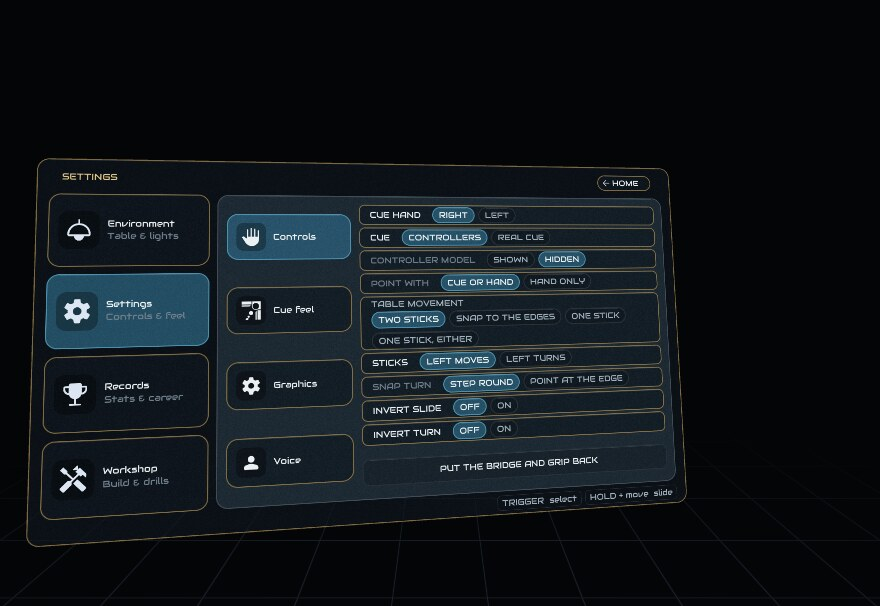
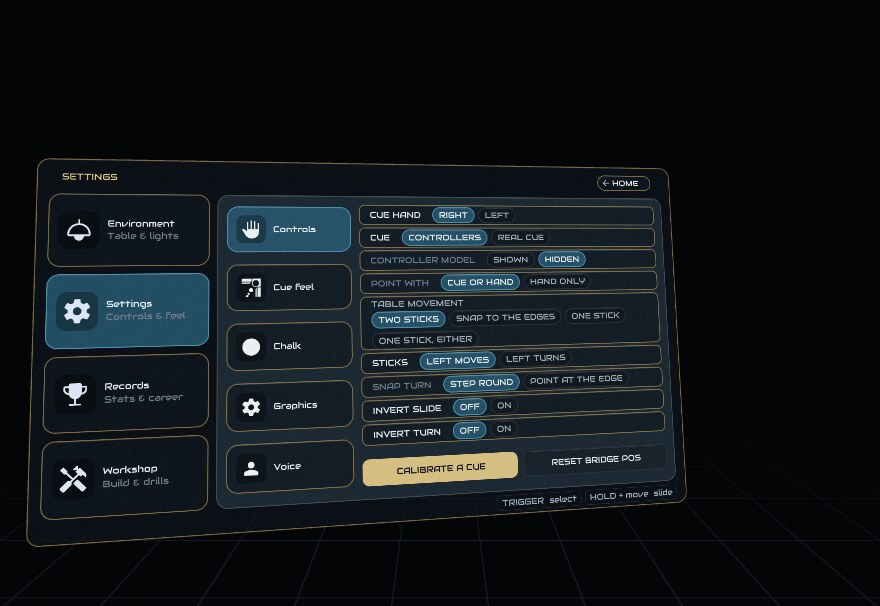
The guide catches up with 5.2
SETTING UP THE TABLE is one panel and the section is rewritten for it. There is
no separate height screen and no separate square screen: you mark the real
surface you are playing over and the game table stands on it, so where the
outline is and how high it is decides the cloth's height, its heading and where
it sits. The control table is the panel's own -- hold the trigger and the
outline comes with your hand -- and the amber edge, the show-it-while-playing
setting and the scoreboard step are all described where they now live.

MARKING YOUR REAL TABLE is the first step of that panel rather than a screen of
its own, and says so. ENVIRONMENT is four entries. Cue calibration is on
Controls, with the cue's own row, and the settings tabs are listed including
CHALK.

CHALK gains what 5.2 gave it: every sweep heard and felt, holding the block the
way you want with the side trigger, two taps to put that back, keeping it in
reach, and marks in the chalk's own colour.

THE MX INK has a table of what its buttons do, since they now do anything at
all, and a note that the other controller stays live unless you stand it down.

TWO MORE SNOOKER BODIES, ARCADE and MATCH, photographed beside SNOOKER at the
same camera. A netted table is built on one of the three.

PLAYING A FRIEND says you practise while you wait, and CANADIAN BOWLLIARDS says
you call nothing.

New pictures: place-table, board-step, settings-chalk, body-arcade, body-match,
and controls re-shot.

Changed region(s): [[0.2455, 0.3267, 0.3989, 0.8317], [0.3989, 0.7426, 0.7364, 0.802]]

diff --git a/docs/cuevr-guide.html b/docs/cuevr-guide.html
@@ -369,69 +369,71 @@
 
 <section id="table">
   <h2>Setting up the table</h2>
-  <p class="lede">Where the table sits and how high it stands is the first thing to set.</p>
+  <p class="lede">One panel, and every way in opens the same one.</p>
 
   <figure>
-    <img src="img/cuevr/place-table.jpg" alt="The table placement screen showing a height of 85 cm">
-    <figcaption>The placement screen. Three things to do, and only the first is compulsory. The
-    height is shown in centimetres so you can match a real piece of furniture.</figcaption>
+    <img src="img/cuevr/place-table.jpg" alt="The table panel: two steps, the outline's size and height, and what each control does">
+    <figcaption>The table panel. Two steps down the side &mdash; <b>Your real table</b> and
+    <b>Scoreboard</b> &mdash; and under them what the step is for, the size and height it is at, and
+    a line for each control.</figcaption>
   </figure>
 
-  <p>The panel down the side carries the three steps, and says what the sticks and the triggers
-  do while you are on each one. <b>Adjust the height</b> is the one you have to do; <b>Adjust the
-  square</b> fits a drawn rectangle to the real surface the cloth is laid over; <b>Scoreboard</b>
-  is marked optional and nothing waits for it.</p>
+  <p>The first thing you do is mark <b>the real surface you are playing over</b>: a desk, a dining
+  table, the end of a bed. The game table then <b>stands on it</b>. You do not set the cloth's
+  height separately and you do not turn the cloth separately &mdash; where that outline is and how
+  high it is decides all three, so the rail lands over your real edge and your bridge hand comes
+  down on something solid.</p>
 
   <table>
     <tr><th>Control</th><th>What it does</th></tr>
-    <tr><td>Left stick</td><td>Slides the table around the room.</td></tr>
-    <tr><td>Right stick, left and right</td><td>Turns the table.</td></tr>
-    <tr><td>Right stick, up and down</td><td>Raises and lowers the table. This is the only thing
-      that needs this screen — sliding and turning work anywhere.</td></tr>
-    <tr><td><b>Grip</b> a rail, or the bed</td><td>Takes hold of the table. Move your hand and it
-      comes with you; roll your wrist and it turns about where you are holding it.</td></tr>
-    <tr><td><b>Trigger</b>, with the controller lying flat</td><td>Sets the height off something
-      real. Lay a controller on your dining table and pull the trigger: the cloth drops to that
-      surface, less the thickness of the controller, and the panel tells you what height it
-      took.</td></tr>
-    <tr><td><kbd>A</kbd></td><td>Finished. Saves the position. Either hand.</td></tr>
+    <tr><td><b>Trigger</b>, held</td><td>The outline comes with your hand &mdash; where it is, how
+      high it is and which way it runs, all at once. Let go to leave it there. This is the quickest
+      way by a distance: stand at your desk, point along it, pull.</td></tr>
+    <tr><td>Left stick</td><td>Slides the outline.</td></tr>
+    <tr><td>Right stick</td><td>Makes it bigger or smaller.</td></tr>
+    <tr><td><b>Grip</b> + right stick</td><td>Turns it, and raises or lowers it.</td></tr>
+    <tr><td><b>Grip</b> a corner</td><td>Drags that corner to where your real corner is.</td></tr>
+    <tr><td><kbd>A</kbd>, or <b>DONE</b></td><td>Finished. It is kept between sessions.</td></tr>
   </table>
 
   <div class="note">
-    <b>With a real cue on, this screen is one stick.</b> The stick sets the height and turns the
-    table; <b>squeeze the side trigger</b> and it slides the table about instead — forward, back
-    and sideways. Squeeze it again to go back to the height. The panel says which of the two it is
-    on. <kbd>A</kbd> works from either hand. See
-    <a href="#onestick">One stick has to do everything</a>.
+    <b>The bright edge is the side you play from.</b> It turns amber when you have walked round to
+    a different side, and the panel says what to do about it: rotate the outline round to where you
+    are standing. That edge decides which way the cloth runs, so it is worth getting right.
   </div>
 
   <div class="note">
-    <b>Line the table up with real furniture.</b> Set the height so the cloth matches something you
-    actually have — a dining table, a desk, or the arm of a sofa. Then when you lean on the table
-    your hand touches something solid. If the table is at a height that matches nothing in the room
-    you will keep leaning on thin air, and the stroke will feel wrong. If the table is drawn over
-    a real table, there is a better way still: mark its edge and snap to it — see
-    <a href="#snap">Snap to the edges</a>.
+    <b>With a real cue on, this is one stick.</b> The stick slides, scales or turns depending on
+    which job it is on, and the <b>side trigger</b> steps between them; the panel names the live
+    one. The trigger still carries the outline, and <kbd>A</kbd> still finishes. See
+    <a href="#onestick">One stick has to do everything</a>.
   </div>
 
-  <p>A real snooker table has its bed about 85 cm off the floor, which is where the screen starts.
-  You do not need a room big enough for the whole table. If space is tight, bring the part of the
-  table you need into the space you have — the left stick slides it and the right stick turns it,
-  at any time, and you can keep doing that as the frame goes on.</p>
+  <p><b>Whether the outline shows while you play</b> is on the same panel: <b>Never</b>,
+  <b>Always</b>, or <b>On press</b> &mdash; a short press of your butt hand's upper button brings it
+  up for a couple of seconds. It is that hand and not the other, because the bridge hand's upper
+  button belongs to the rest.</p>
 
-  <p>The table stays where you put it between sessions. You do not have to come back to this screen
-  to move it, though: the sticks slide and turn the table whenever you are at it, including in the
-  middle of a frame. The one thing only this screen can change is the <b>height</b> — to get back to
-  it, press <kbd>MENU</kbd> and choose the <b>Table</b> square, or open <b>Environment &rarr;
-  Table</b> from the main menu.</p>
+  <p>A real snooker table has its bed about 85 cm off the floor, which is where the panel starts.
+  You do not need a room big enough for the whole table: the sticks slide and turn the table at any
+  time, including in the middle of a frame, so bring the part you need into the space you have.</p>
+
+  <p>To come back to the panel: press <kbd>MENU</kbd> and choose the <b>Table</b> square, or open
+  <b>Environment &rarr; Table</b> from the main menu. Both open this same panel.</p>
 
   <h3>Pinning the scoreboard</h3>
   <p>The scoreboard normally hangs above the far end of the table and moves with it. If you would
-  rather it lived somewhere real — a wall, or a television that is switched off — choose
-  <b>Scoreboard</b> on this screen, or <b>Environment &rarr; Scoreboard &rarr; PIN IT
-  SOMEWHERE</b>. Grip the board, carry it to where you want it and let go; it stays flat where you
-  left it. Press <kbd>A</kbd> when you are done. It keeps that place between sessions, exactly as
-  the table does, until <b>BACK TO AUTO</b> puts it back above the table.</p>
+  rather it lived somewhere real — a wall, or a television that is switched off — tap
+  <b>Scoreboard</b>, the second step on the table panel. Grip the board, carry it to where you want
+  it and let go; it stays flat where you left it. Press <kbd>A</kbd> when you are done. It keeps
+  that place between sessions, exactly as the table does, until <b>BACK TO AUTO</b> puts it back
+  above the table.</p>
+
+  <figure>
+    <img src="img/cuevr/board-step.png" alt="The scoreboard step of the table panel">
+    <figcaption>The same panel, second step. Both steps stay on screen the whole time, so moving
+    between them is one tap.</figcaption>
+  </figure>
 
   <p><b>The arena has a screen of its own.</b> A pinned board is a place in your real room, and the
   arena is not your real room — so while you are in it the scoreboard goes onto the screen built
@@ -843,6 +845,9 @@
   </div>
 
   <h3>The rest of the settings</h3>
+  <p>Settings has five tabs: <b>Controls</b> (which hand, real cue or controllers, how the table
+  moves, and the button that calibrates a cue), <b>Cue feel</b> (the rows below), <b>Chalk</b>
+  (see <a href="#chalk">Chalk</a>), <b>Graphics</b> and <b>Voice</b>.</p>
   <table>
     <tr><th>Row</th><th>What it does</th></tr>
     <tr><td><b>STROKE</b></td>
@@ -881,10 +886,22 @@
   </table>
 
   <h3>The Logitech MX Ink</h3>
-  <p>If you play with the pen, you no longer have to switch your other controller off to keep it out
-  of the way. The game asks the headset which device is in which hand, and when it finds a pen it
-  stands the other controller down entirely — no second hand in the scene, no stray button presses
-  from a controller sitting on the arm of a chair.</p>
+  <p>The pen is a cue in its own right. Its buttons map to the ones the game uses:</p>
+  <table>
+    <tr><th>On the pen</th><th>What it is</th></tr>
+    <tr><td>Middle pad</td><td>The trigger.</td></tr>
+    <tr><td>Pressing the tip</td><td>The grip.</td></tr>
+    <tr><td>Front cluster button</td><td>The lower button — <kbd>A</kbd> or <kbd>X</kbd>.</td></tr>
+    <tr><td>Back cluster button</td><td>The upper button — <kbd>B</kbd> or <kbd>Y</kbd>.</td></tr>
+    <tr><td>Front button, double tap</td><td><kbd>MENU</kbd>.</td></tr>
+    <tr><td>Back button, double tap</td><td>Clicking the stick.</td></tr>
+  </table>
+  <p>The double taps are the pen's own, not a gesture timed by the game, so they feel the same as
+  they do everywhere else on the pen.</p>
+  <p><b>Your other controller stays live</b> — it still points at menus, still bridges, still
+  presses things. If you would rather it stood down while the pen is in play, <b>Settings &rarr;
+  Controls &rarr; OFF HAND</b> has that; the row only appears once the game has actually seen a
+  pen.</p>
   <div class="note">
     <b>If you have one, we would like to hear how it goes.</b> None of us owns a pen, so this is
     written from the headset's own device reports rather than from playing with it.
@@ -930,35 +947,27 @@
   </div>
 
   <h3>Marking your real table</h3>
-  <p>If the table is drawn over a real piece of furniture, you can walk into its edge while leaning
-  across for a shot. Choose <b>Adjust the square</b> on the placement screen to mark it — or
-  <b>Environment &rarr; Real edge &rarr; MARK THE EDGE</b> — and you get a faint pane of light that
-  you size to your own furniture. The left stick moves it, the right stick
-  stretches it along and across, and the side triggers turn it — either way round. You can also
-  grip any corner and drag it to where your real corner is. The lit edge is the side you lean
-  over; it goes amber when it is not.
-  <b>With a real cue set up it is one stick:</b> the side trigger steps it through move, size and
-  turn, and the panel says which. If you lose the square altogether,
-  <b>BRING IT BACK TO THE TABLE</b> on the panel puts it back where the table is. Show it all the time, never, or for
-  a couple of seconds on a short press of your <b>butt hand's upper button</b> while you play. It
-  is that hand and not the other one, because the bridge hand's upper button belongs to the rest —
-  on a left-handed setting those two are the opposite way round from a right-handed one, and
-  sharing a press would have brought the rest up every time you glanced at your furniture.</p>
+  <p>This is the first step of the table panel, and the one worth doing properly. If the cloth is
+  drawn over a real piece of furniture you can lean on it, rest a bridge hand on its edge and walk
+  into it safely — and the game table stands on whatever you mark, so marking it well is how the
+  cloth ends up at the right height and the right way round.</p>
 
-  <figure>
-    <img src="img/cuevr/square-screen.png" alt="The ADJUST THE SQUARE screen, with the panel listing what each control does">
-    <figcaption><b>ADJUST THE SQUARE.</b> The panel carries the whole of it: what the square is for,
-    how big it currently is in centimetres, and a line for each control — left stick to slide it,
-    right stick to make it bigger or smaller, grip to turn it, grip a corner to drag that corner.
-    With a real cue clamped on, those three become one stick and the side trigger swaps between
-    them; the panel names the live one.</figcaption>
-  </figure>
+  <p>Stand at the edge of your desk, <b>point along it and hold the trigger</b>: the outline comes
+  to your hand, at your hand's height, running the way you are pointing. Let go and it stays. From
+  there the left stick slides it, the right stick sizes it, grip with the right stick turns and
+  raises it, and you can grip any corner and drag it onto your real corner. <b>RESET THE
+  OUTLINE</b> puts it back under the table if you lose it.</p>
+
+  <p>The bright edge is the side you play from; amber means you are standing at a different one and
+  should rotate the outline round to you. Show it while you play — <b>Never</b>, <b>Always</b>,
+  or <b>On press</b> — from the same panel.</p>
 
   <figure>
     <img src="img/cuevr/table-mark.jpg" alt="A faint translucent rectangle lying on the table surface">
-    <figcaption>The mark, sized to a metre square. It lies in the room rather than on the cloth, so
-    moving or turning the table leaves it where your real table is.</figcaption>
+    <figcaption>The mark. It lies in the room rather than on the cloth — it is your furniture it
+    describes, not the table.</figcaption>
   </figure>
+
 
   <h3 id="snap">Snap to the edges</h3>
   <p>Once the mark is in, the <b>TABLE MOVEMENT</b> row has a setting built around it: <b>SNAP TO
@@ -1776,11 +1785,12 @@
       takes every pot however thin and chooses between them by where the cue ball finishes, which
       is what clearing ten actually asks of you.</p>
       <p>The <b>RULES</b> row offers <b>CANADIAN</b> house rules as well as the standard game.
-      Under those the break is a scoring stroke: whatever goes down on it stays down and counts
-      towards your first inning. You play the white from wherever it finishes rather than taking
-      it in hand, unless you potted it — a scratch on the break costs you the position and nothing
-      else. And failing to reach a cushion is still a foul, but the incoming player takes the table
-      as it lies instead of with the ball in hand.</p>
+      Under those <b>you do not call anything</b> — no ball, no pocket, pot what you can. The
+      break is a scoring stroke: whatever goes down on it stays down and counts towards your first
+      inning. You play the white from wherever it finishes rather than taking it in hand, unless
+      you potted it — a scratch on the break costs you the position and nothing else. And failing
+      to reach a cushion is still a foul, but the incoming player takes the table as it lies
+      instead of with the ball in hand.</p>
       <p>Try it with the <b>TENPIN</b> ball set: ivory pins with the two red rings round the neck,
       numbered one to ten as pins are, and a swirled bowling ball for the cue ball.</p>
     </div>
@@ -2451,6 +2461,15 @@
     <tr><td><b>BROWSE</b></td><td>You want to see which rooms are open and pick one.</td></tr>
   </table>
 
+  <div class="note">
+    <b>You practise while you wait.</b> Whichever way you started — quick match, hosting,
+    joining a code, picking a room off the browser — you are put straight onto a practice table
+    with the game you chose racked up, instead of watching the word <em>Waiting</em>. The search
+    carries on in the background and the scoreboard says so, with your code on it if you are
+    hosting. A <b>bell</b> rings when somebody arrives and the match takes over; another rings if
+    the search gives up, and the table stays yours. <b>Pause &rarr; Home</b> calls it off.
+  </div>
+
   <p>You both see the same table, the same balls and the same score. You will see your opponent's
   cue move as they play, and it is the cue they chose. The referee calls fouls at both ends, and the
   player who was fouled against makes the decision.</p>
@@ -2547,19 +2566,28 @@
       into, and the balls run the length of the table into it.</figcaption></figure>
     <figure><img src="img/cuevr/body-snooker.png" alt="The Snooker table body">
       <figcaption><span class="cap-t">SNOOKER</span> — the club table. A heavy cabinet set back
-      under an overhanging frame, on turned legs, and the only body that leaves room underneath for
-      the bags and the collector rails. A netted table is built on this one and nothing else, and
-      this one is offered on nothing but a netted table &mdash; on any other design the furniture
-      has nowhere to hang.</figcaption></figure>
+      under an overhanging frame, on turned legs, leaving room underneath for the bags and the
+      collector rails. Offered on nothing but a netted table &mdash; on any other design the
+      furniture has nowhere to hang.</figcaption></figure>
+    <figure><img src="img/cuevr/body-arcade.png" alt="The Arcade table body">
+      <figcaption><span class="cap-t">ARCADE</span> — the gothic cabinet. A row of pointed
+      arches cut clean through the apron, a trefoil light in each spandrel, and eight-sided pillar
+      legs with a turned neck and a gilt collar. Snooker only, like the other two.</figcaption></figure>
+    <figure><img src="img/cuevr/body-match.png" alt="The Match table body">
+      <figcaption><span class="cap-t">MATCH</span> — the tournament cabinet. A panelled apron
+      with a scalloped skirt between the posts, and heavy turned legs with inlaid bands at the
+      collar and the ankle. Snooker only.</figcaption></figure>
   </div>
 
   <p><b>AUTO</b> gives each table the body it would really have: the 7 ft pub table gets CABINET, the
   9 ft American beds and straight pool get PRO, the 12 ft match table, 10-red snooker, English
   billiards and Paul get SNOOKER, and everything else — the Chinese 10 ft, pyramid, bar billiards,
   the rotation games and any many-sided or round bed — gets VICTORIAN.</p>
-  <p>A table dressed with <b>string pockets</b> is always built on SNOOKER, whichever body you pick.
-  The bags and the collector rails hang in the shelf that body's overhang leaves, and on any other
-  design they would be buried in the cabinet or left floating under it.</p>
+  <p>A table dressed with <b>string pockets</b> is always built on one of the three snooker bodies
+  — <span class="cap-t">SNOOKER</span>, <span class="cap-t">ARCADE</span> or
+  <span class="cap-t">MATCH</span> — whichever else you pick. The bags and the collector rails
+  hang in the shelf their overhang leaves, and on any other design they would be buried in the
+  cabinet or left floating under it.</p>
 
   <p>It works the other way too: <b>SNOOKER is only offered on a table that has the bags</b>. The
   overhang exists to leave them somewhere to hang, so on a table with drop pockets there is nothing
@@ -3225,7 +3253,7 @@
   itself unless you ask for the job.</p>
 
   <h3>Do I have to?</h3>
-  <p>No. <b>Settings &rarr; Cue feel &rarr; CHALKING</b> is set to <b>AUTOMATIC</b>, which means
+  <p>No. <b>Settings &rarr; Chalk &rarr; CHALKING</b> is set to <b>AUTOMATIC</b>, which means
   your tip is always chalked, nothing ever slips, and the chalk is simply an object on the rail you
   may pick up if you feel like it. Set it to <b>MANUAL</b> and it becomes part of the game: the tip
   wears a little with every stroke, wears a lot with a hard one, and a wide contact on a bare tip
@@ -3255,10 +3283,28 @@
   <p><b>Environment &rarr; Cloth</b> has its own switch for whether the cloth picks chalk up at all,
   and a <b>WIPE THE TABLE</b> button.</p>
 
+  <h3>Holding it, and hearing it</h3>
+  <p>Every sweep of the block across your tip is <b>heard and felt</b> — real recordings of a
+  block on a tip, a different one each time, whether the tip needed chalking or not. <b>CHALK
+  SOUND</b> turns that off if you would rather play in quiet.</p>
+  <p><b>Hold it however suits you.</b> With the block in your hand, squeeze the side trigger: the
+  block stops dead in mid-air while your hand keeps moving. Turn and slide your hand until the
+  block sits the way you want it, then let go &mdash; that is how it is held from then on, this
+  pickup and every one after. Two quick squeezes put it back to normal.</p>
+  <p><b>KEEP IT IN REACH</b> brings the block round the table with you. Walk to the other end and
+  after a moment it moves to the rail beside you, on straight timber and never over a pocket. Turn
+  it off and it stays where you left it.</p>
+
+  <figure>
+    <img src="img/cuevr/settings-chalk.png" alt="The Chalk tab of the settings screen">
+    <figcaption><b>Settings &rarr; Chalk.</b> Everything about the block in one place.</figcaption>
+  </figure>
+
   <h3>Your block</h3>
   <p><b>CHALK BLOCK</b> is a cube or a cylinder, and <b>CHALK COLOUR</b> green, grey or blue. The
   cube marks the cloth the way pressed chalk does; the cylinder is the hard sort and barely marks
-  it at all. Chalk is personal: online you see the block your opponent is using, in their colour,
+  it at all. The marks come out in your chalk's own colour. Chalk is personal: online you see the
+  block your opponent is using, in their colour,
   and how much is on their tip — and your own marks switch decides whether you see any marks at
   all, whoever made them.</p>
 </section>
